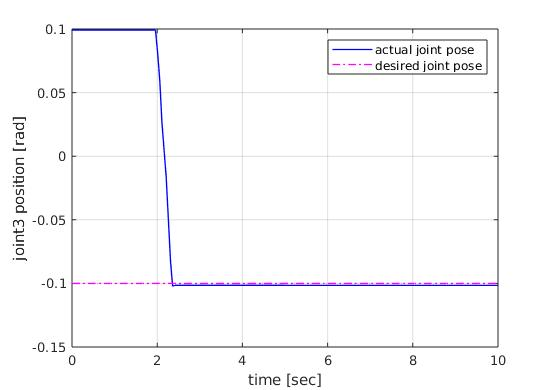
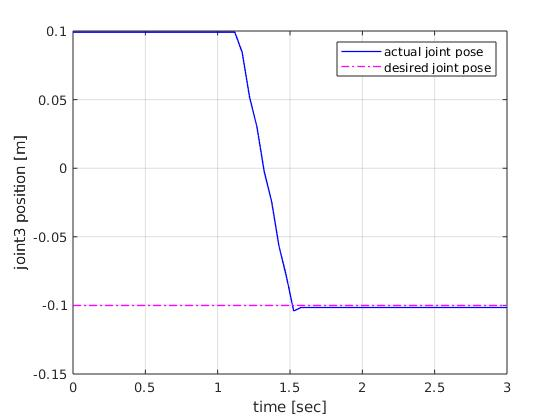
update part2 plots

diff --git a/plot_data.m b/plot_data.m
@@ -12,7 +12,7 @@ joint_states = rossubscriber('/custom_scara/joint_states');
 
 joint3 = [];
 rate = robotics.Rate(20);
-record_time = 8;
+record_time = 3;
 reset(rate);
 
 while rate.TotalElapsedTime < record_time
@@ -32,7 +32,7 @@ hold on
 plot(t,ref,'-.m','LineWidth',1);
 grid on
 xlabel('time [sec]');
-ylabel('joint3 position [rad]');
+ylabel('joint3 position [m]');
 legend('actual joint pose','desired joint pose');
 
 
